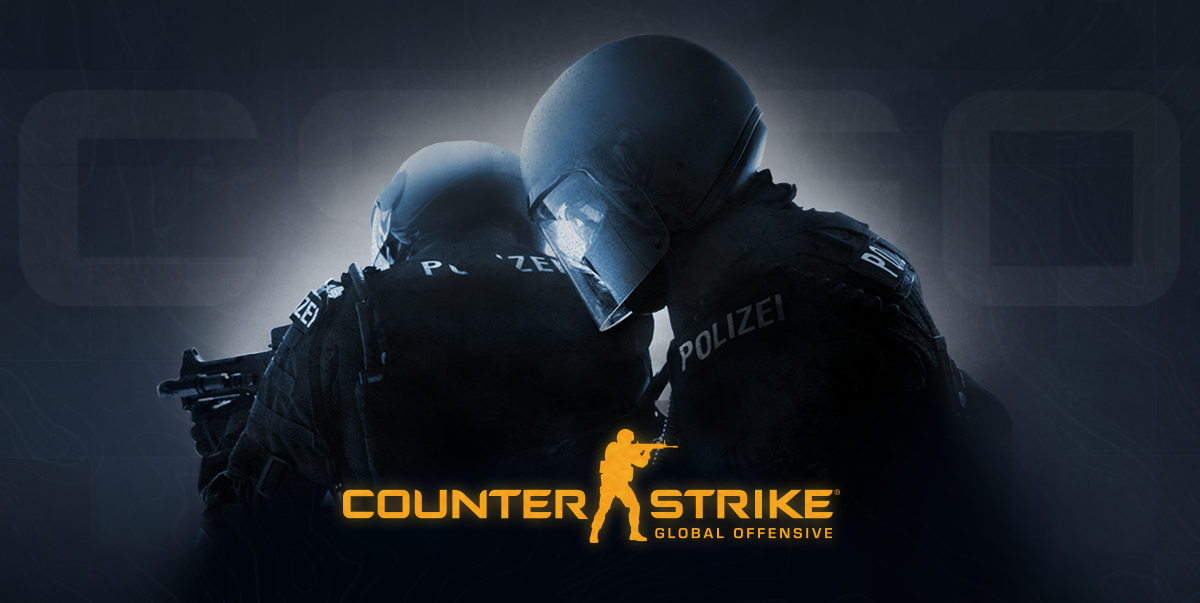
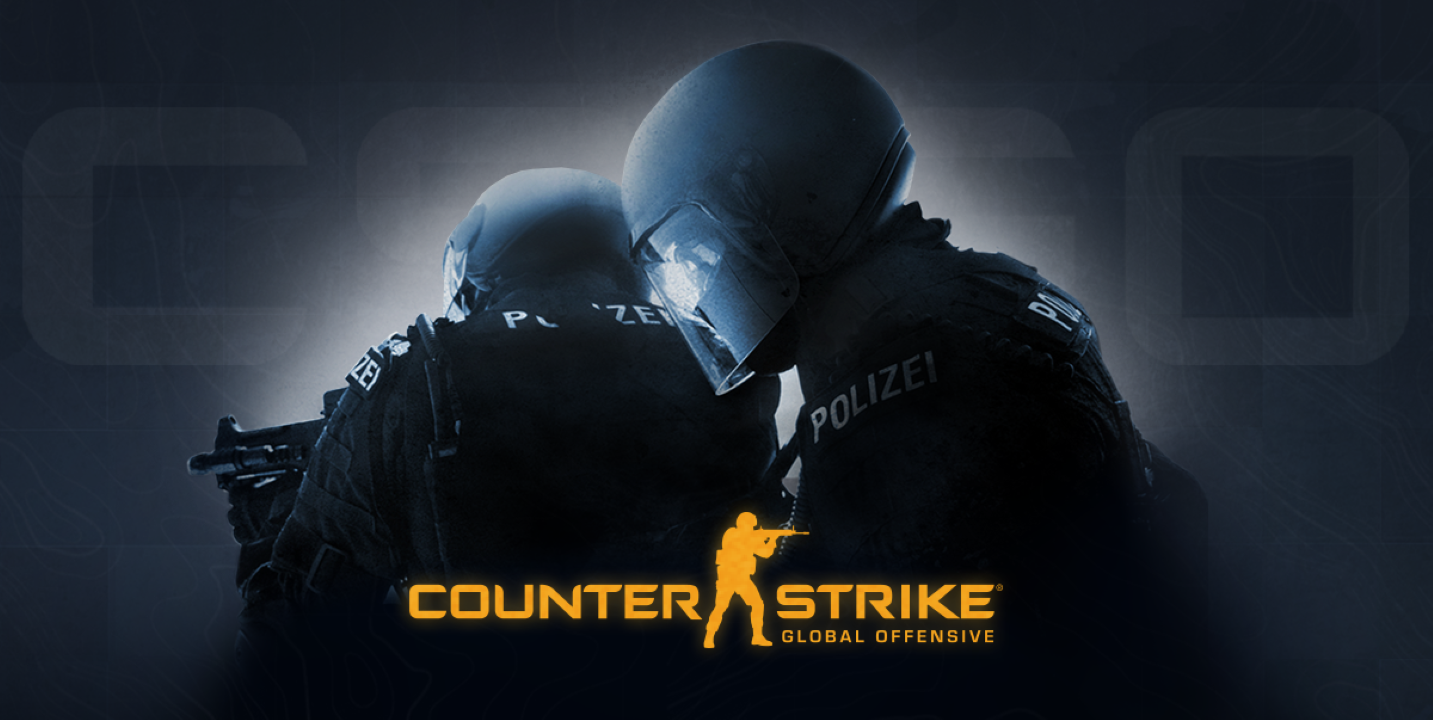
resized images + added some javascript code

diff --git a/gaming.html b/gaming.html
@@ -7,9 +7,12 @@
   <title>Favorite Games</title>
   <link rel="stylesheet" href="css/normalize.css">
   <link rel="stylesheet" href="css/style.css">
+  <script src="javascript/script1.js"></script>
 </head>
 
 <body>
+
+  
   <header>
     <nav>
       <ul>
@@ -23,39 +26,38 @@
     <h1>My Favorite Games</h1>
     <p>Here&#39;s a list of a few of my favorite videogames growing up along with a description of each.</p>
   </section>
-  <section class="game">
-    <div class="image-container">
+
+  <div id="slider" class="slider">
+    <div class="image-container slide" style="display: block;">
       <a href="https://www.leagueoflegends.com/en-us/">
         <img class="game-image" src="images/original_images/leagueoflegends.jpg" alt="League of Legends Image">
       </a>
+      <p class="game">League of Legends is a popular multiplayer online battle arena (MOBA) game developed by Riot Games. It features
+        a competitive environment where players work together in teams to defeat their opponents. The game is known for
+        its rich lore, diverse champions, and competitive gameplay.</p>
     </div>
-    <!-- <h2>League of Legends</h2> -->
-    <p>League of Legends is a popular multiplayer online battle arena (MOBA) game developed by Riot Games. It features
-      a competitive environment where players work together in teams to defeat their opponents. The game is known for
-      its rich lore, diverse champions, and competitive gameplay.</p>
-  </section>
-  <section class="game">
-    <div class="image-container">
+    <div class="image-container slide" style="display: block;">
       <a href="https://blog.counter-strike.net/">
         <img class="game-image" src="images/original_images/csgo.png" alt="Counter-Strike: Global Offensive Image">
       </a>
-    </div>
-    <!-- <h2>Counter-Strike: Global Offensive</h2> -->
-    <p>Counter-Strike: Global Offensive (CS:GO) was a first-person shooter game developed by Valve. It is known for its
+      <p class="game">Counter-Strike: Global Offensive (CS:GO) was a first-person shooter game developed by Valve. It is known for its
         strategic gameplay, precise shooting mechanics, and competitive scene. Players engage in team-based matches,
         with one team trying to complete objectives while the other team attempts to stop them.</p>
-  </section>
-  <section class="game">
-    <div class="image-container">
+    </div>
+    <div class="image-container slide" style="display: block;">
       <a href="https://gmod.facepunch.com/">
         <img class="game-image" src="images/original_images/garrysmod.jpg" alt="Garry's Mod Image">
       </a>
+      <p class="game">Garry&#39;s Mod, often abbreviated as Gmod, is a sandbox game developed by Facepunch Studios. It allows players to
+        create and manipulate objects and characters in a physics-driven environment. Gmod is known for its modding
+        community, which has created a wide variety of user-generated content and game modes.</p>
     </div>
-    <!-- <h2>Garry&#39;s Mod</h2> -->
-    <p>Garry&#39;s Mod, often abbreviated as Gmod, is a sandbox game developed by Facepunch Studios. It allows players to
-      create and manipulate objects and characters in a physics-driven environment. Gmod is known for its modding
-      community, which has created a wide variety of user-generated content and game modes.</p>
-  </section>
+    <a class="prev" onclick="moveSlide(-1)">&#10094;</a>
+    <a class="next" onclick="moveSlide(1)">&#10095;</a>
+  </div>
+  
+
+  
 </body>
 
 </html>

diff --git a/css/style.css b/css/style.css
@@ -201,3 +201,35 @@ iframe {
   width: 100%;
   margin-top: 20px;
 }
+
+.slider {
+  position: relative;
+  width: 100%;
+  max-width: 600px; /* Adjust based on your preference */
+  margin: auto;
+  overflow: hidden;
+}
+
+.slide {
+  display: none;
+  width: 100%;
+}
+
+.prev, .next {
+  cursor: pointer;
+  position: absolute;
+  top: 50%;
+  transform: translateY(-50%);
+  padding: 16px;
+  color: white;
+  font-weight: bold;
+  font-size: 24px;
+  transition: 0.6s ease;
+  border-radius: 0 3px 3px 0;
+  user-select: none;
+}
+
+.next {
+  right: 0;
+  border-radius: 3px 0 0 3px;
+}

diff --git a/javascript/script1.js b/javascript/script1.js
@@ -1,0 +1,17 @@
+let slideIndex = 0;
+showSlides(slideIndex);
+
+function moveSlide(n) {
+  showSlides(slideIndex += n);
+}
+
+function showSlides(n) {
+  let i;
+  let slides = document.getElementsByClassName("slide");
+  if (n > slides.length - 1) slideIndex = 0;
+  if (n < 0) slideIndex = slides.length - 1;
+  for (i = 0; i < slides.length; i++) {
+    slides[i].style.display = "none";  
+  }
+  slides[slideIndex].style.display = "block";  
+}

diff --git a/favrestaurants.html b/favrestaurants.html
@@ -7,6 +7,7 @@
     <title>Personal Favorite Chicago Restaurants</title>
     <link rel="stylesheet" href="css/normalize.css">
     <link rel="stylesheet" href="css/style.css">
+    <script src="javascript/script1.js"></script>
   </head>
 
   <body>

diff --git a/index.html b/index.html
@@ -7,6 +7,7 @@
     <title>Resume</title>
     <link rel="stylesheet" href="css/normalize.css">
     <link rel="stylesheet" href="css/style.css">
+    <script src="javascript/script1.js"></script>
   </head>
   
   <body>
